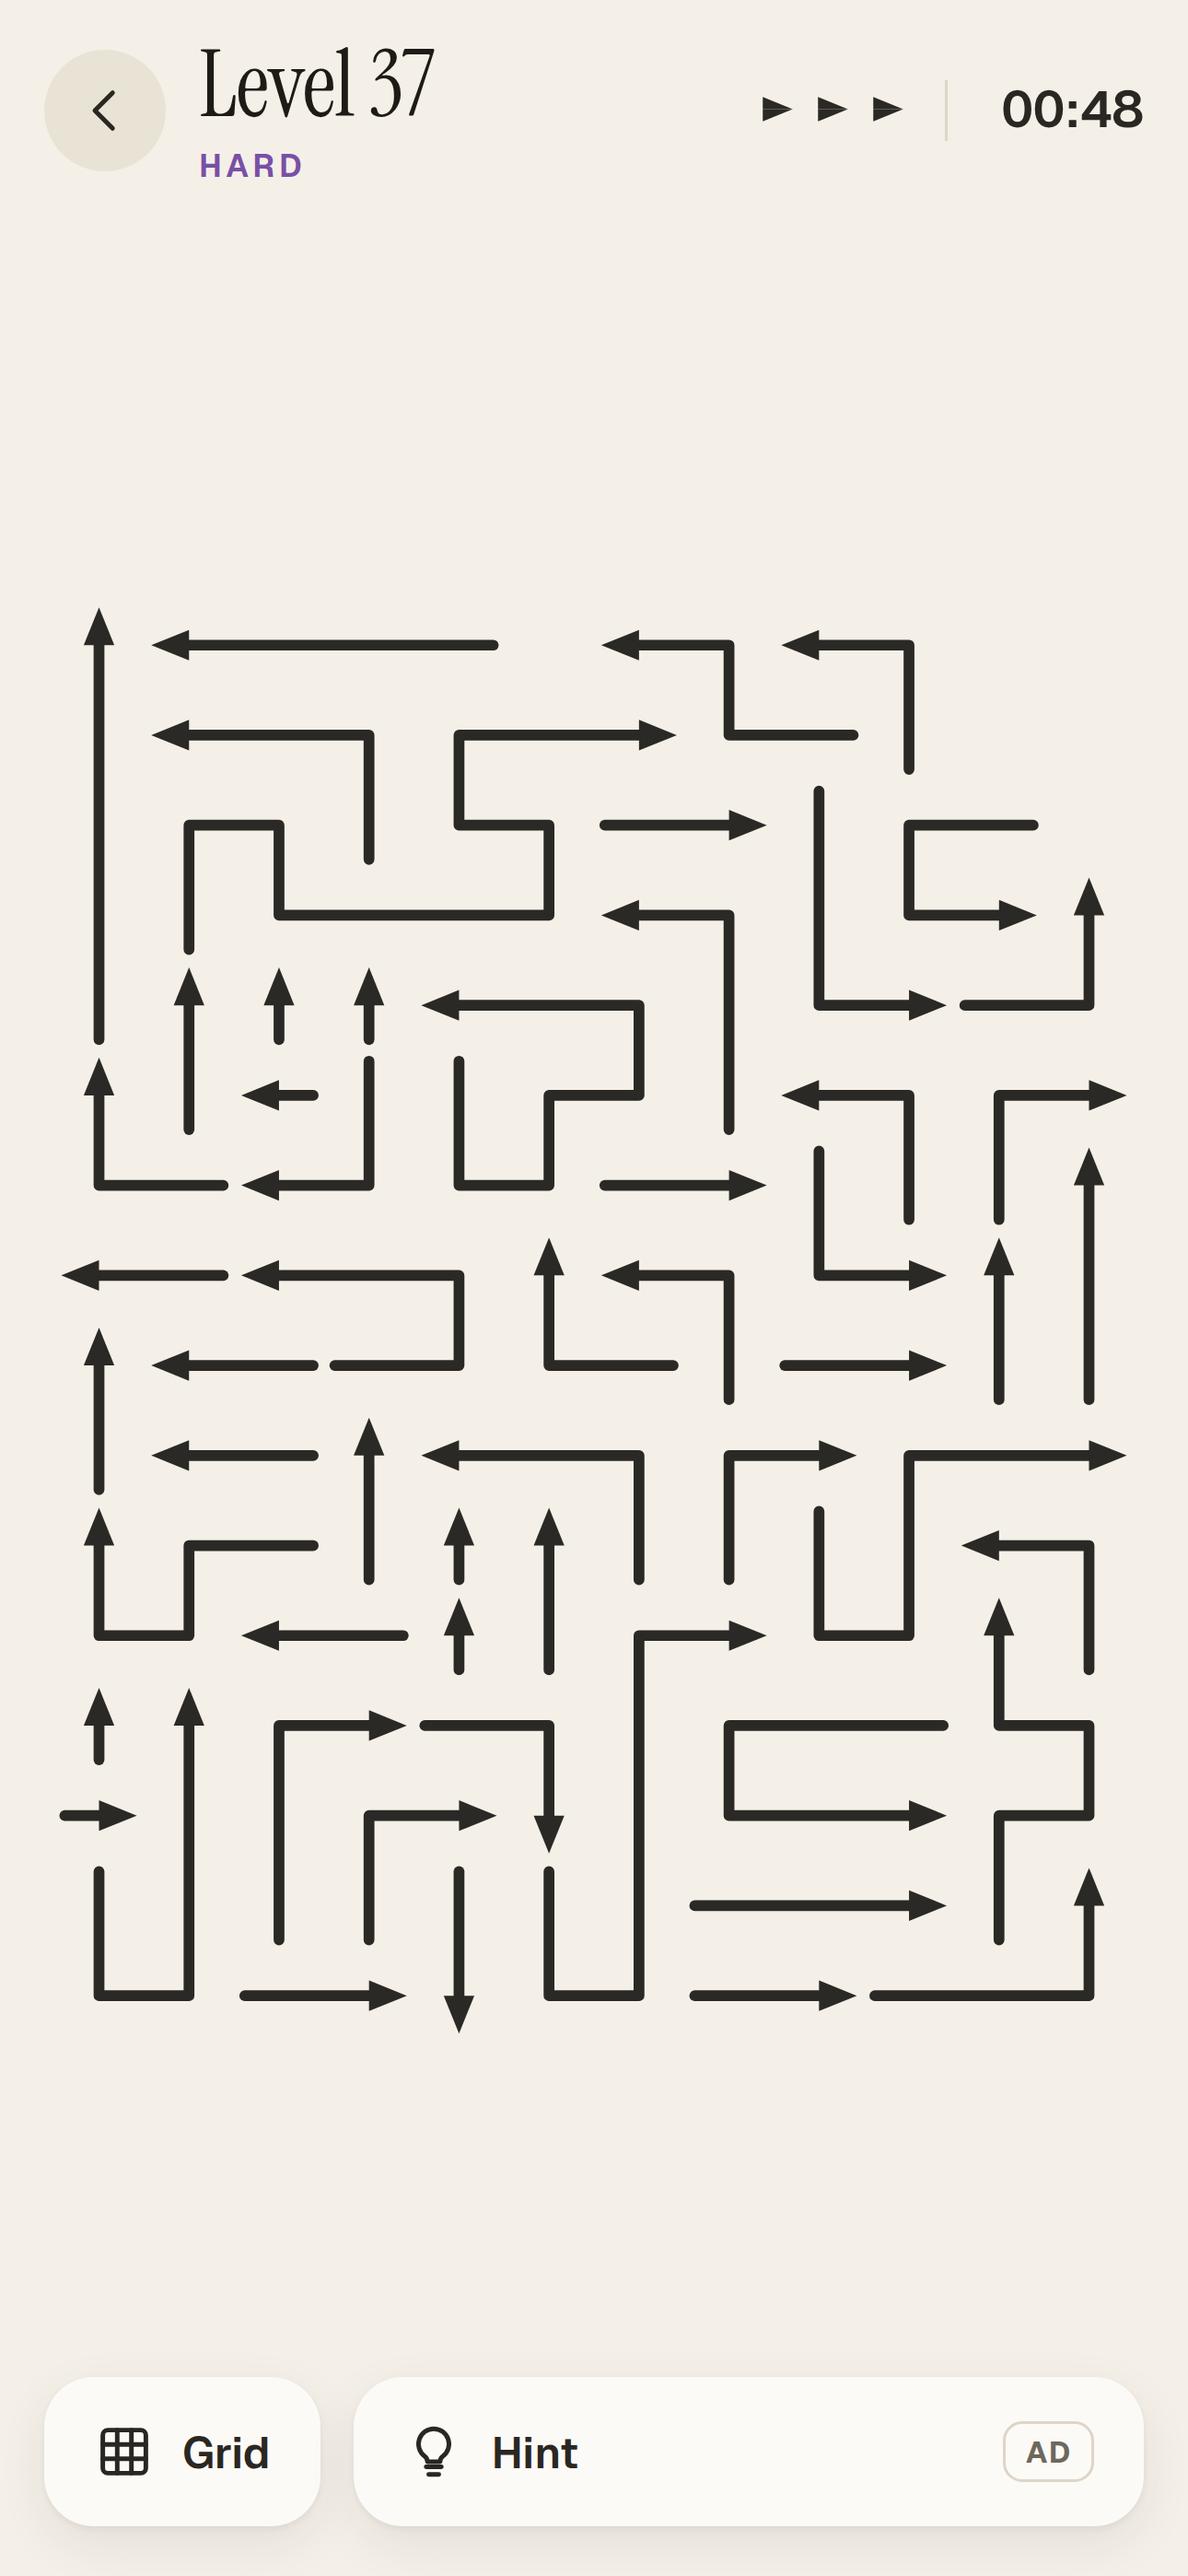
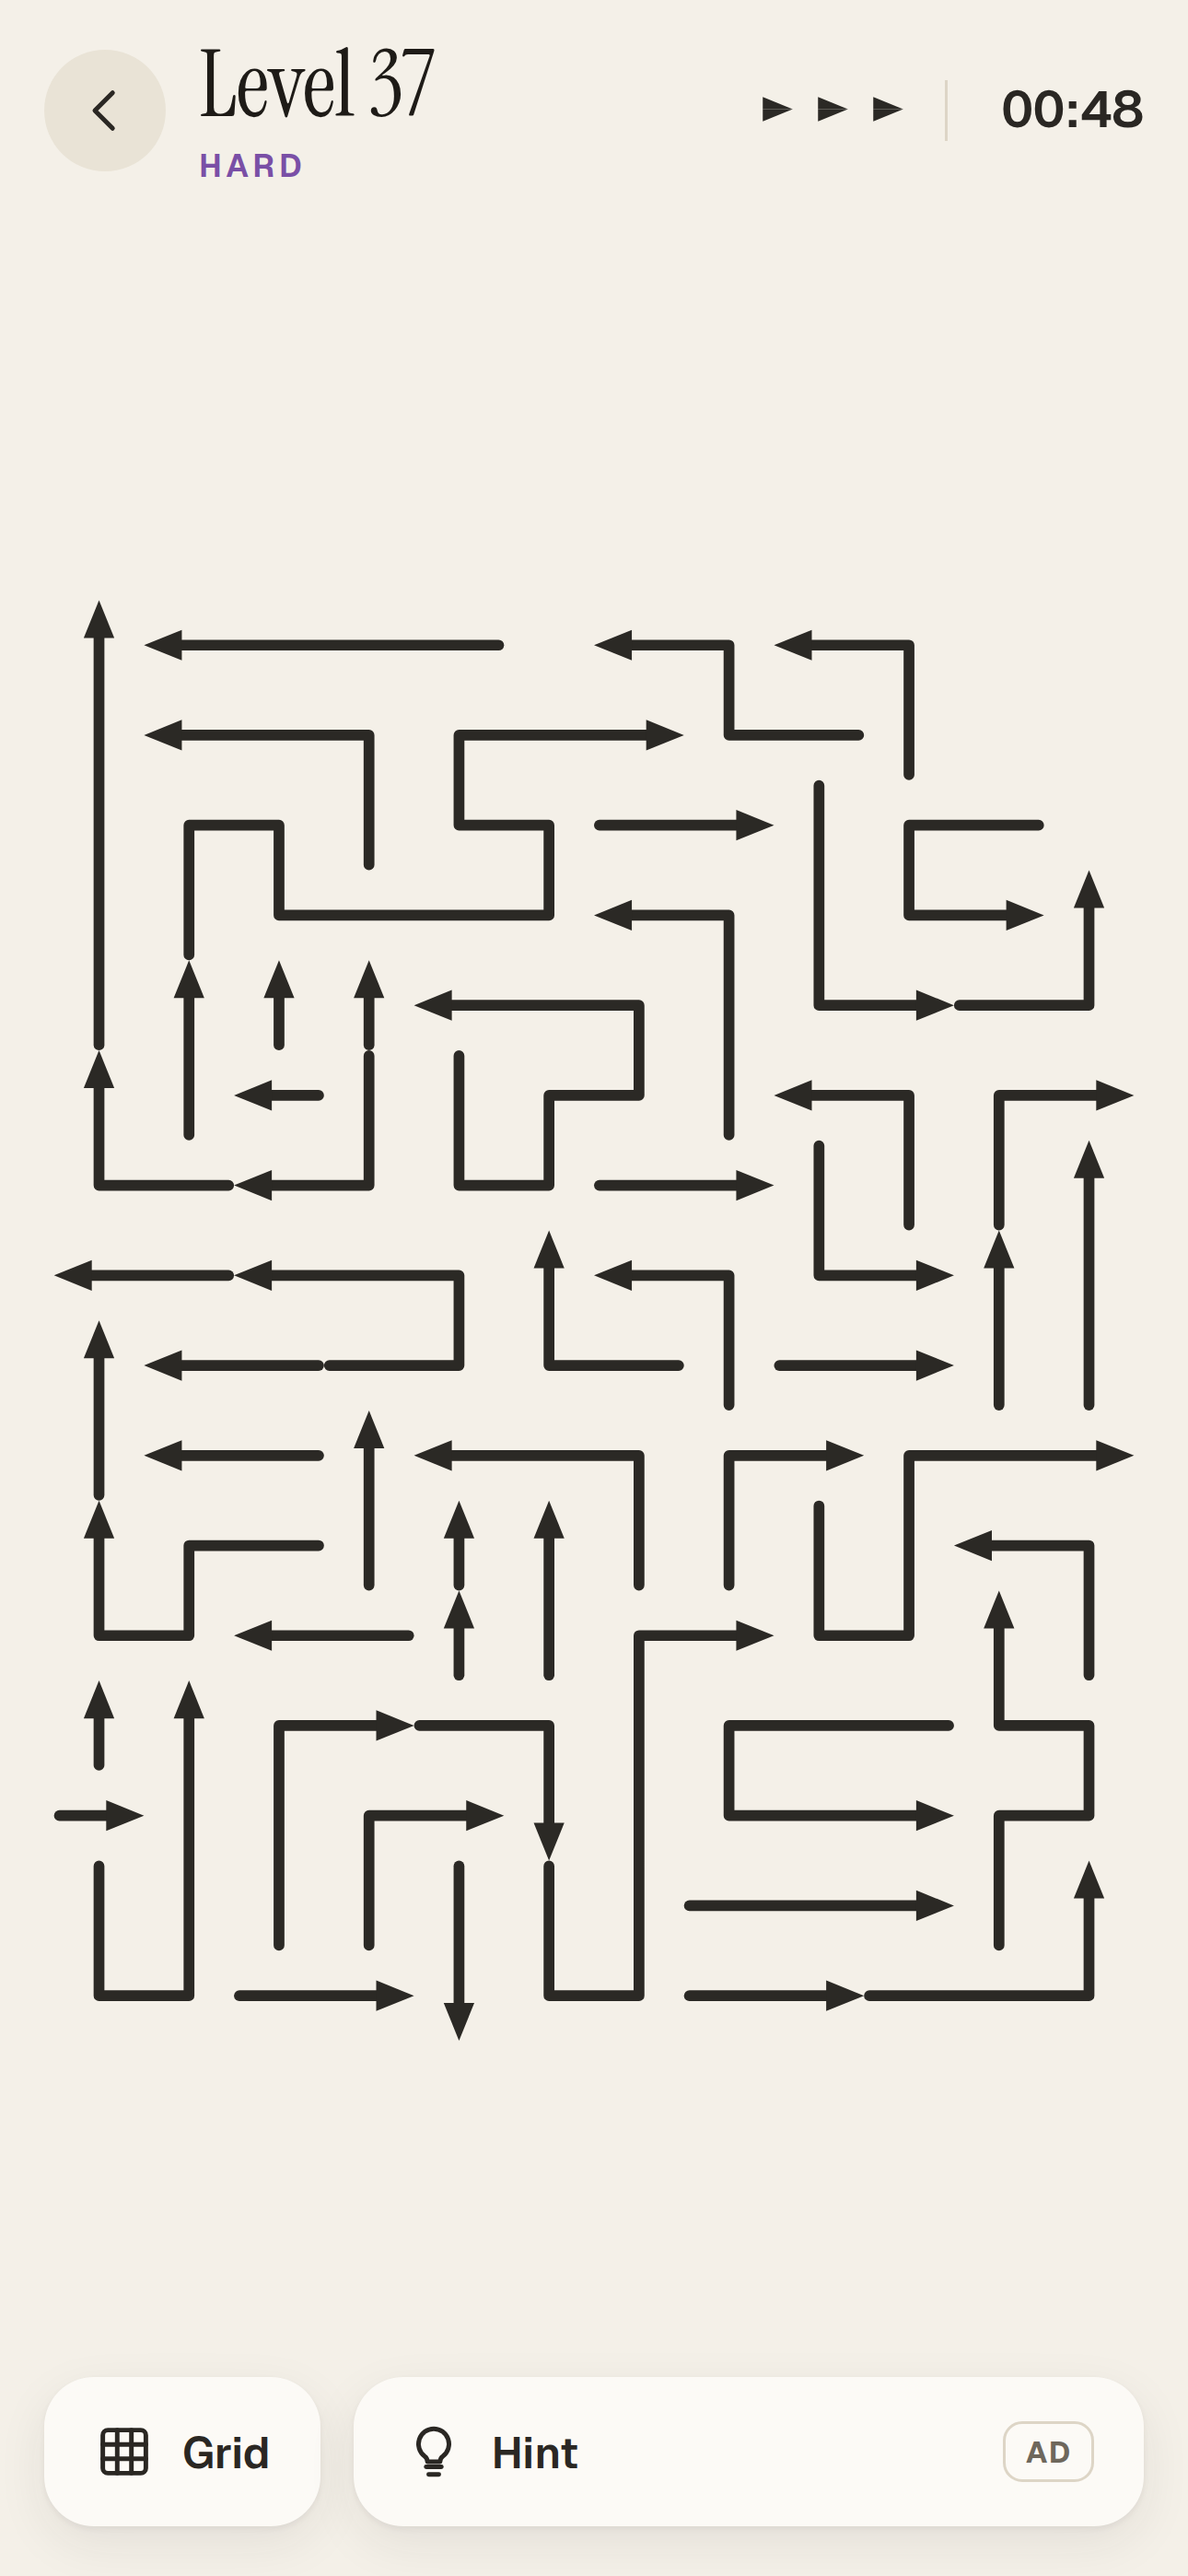
T13: a half-cell grid, with tips, corners and tails on its nodes
The owner on the first version: the grid was still about twice too
big; an arrowhead's tip, every corner of a body and the end of a tail
must each sit on an intersection. The grid now has a line every half
cell, through the cells' centres and along their edges, and the arrows
reach the edges: the head's tip at 0.5 from the head cell's centre
(was 0.42), the tail's round end at the tail cell's edge (tailReach
0.44 plus half the stroke, was 0.38). Two arrows in a line now meet tip
to tail. The store screenshots are taken again; DESIGN.md, PRODUCT.md
and PLAN.md follow.

Claude-Session: https://claude.ai/code/session_01CKCtUeDSMCkpGtK7miqN3G

diff --git a/apps/game/src/board/geometry.ts b/apps/game/src/board/geometry.ts
@@ -120,31 +120,46 @@ export function exitDuration(travel: number, motion: ThemeMotion): number {
 }
 
 /**
- * The grid: the lines the arrows run on, through the cells' centres, one per
- * row and per column across each run of active cells, from edge to edge. An
- * arrow's ray runs along one of them, so a player can follow it to the first
- * arrow in its way.
+ * The grid: lines every half cell, through the cells' centres and along their
+ * edges, across each run of active cells. Its nodes are where an arrow's
+ * corners (the centres), the tip of its head and the end of its tail (the
+ * edges) land, and an arrow's ray runs along one of its lines, so a player can
+ * follow it to the first arrow in its way.
  */
 export function gridData(mask: Mask): string {
   const active = (x: number, y: number): boolean =>
     x >= 0 && y >= 0 && x < mask.width && y < mask.height && mask.active[y * mask.width + x] === 1;
+  // Line k (in half cells) crosses cell row/column j when it runs through its
+  // centre (k = 2j + 1) or along one of its edges (k = 2j or 2j + 2).
+  const crosses = (k: number, j: number): boolean =>
+    k === 2 * j + 1 || k === 2 * j || k === 2 * j + 2;
   const parts: string[] = [];
-  for (let y = 0; y < mask.height; y++) {
-    for (let x = 0; x < mask.width; x++) {
-      if (!active(x, y) || active(x - 1, y)) continue;
-      let end = x + 1;
-      while (active(end, y)) end++;
-      parts.push(`M${x} ${y + 0.5}H${end}`);
+  const runs = (
+    lines: number,
+    length: number,
+    on: (k: number, i: number) => boolean,
+    draw: (k: number, from: number, to: number) => string,
+  ): void => {
+    for (let k = 0; k <= lines; k++) {
+      for (let i = 0; i < length; i++) {
+        if (!on(k, i) || on(k, i - 1)) continue;
+        let end = i + 1;
+        while (on(k, end)) end++;
+        parts.push(draw(k, i, end));
+      }
     }
-  }
-  for (let x = 0; x < mask.width; x++) {
-    for (let y = 0; y < mask.height; y++) {
-      if (!active(x, y) || active(x, y - 1)) continue;
-      let end = y + 1;
-      while (active(x, end)) end++;
-      parts.push(`M${x + 0.5} ${y}V${end}`);
-    }
-  }
+  };
+  // Horizontal line k runs over column x when an active cell of that column touches it.
+  const rowsOn = (k: number, x: number): boolean =>
+    x >= 0 &&
+    x < mask.width &&
+    [Math.floor((k - 1) / 2), Math.floor(k / 2)].some((y) => crosses(k, y) && active(x, y));
+  const columnsOn = (k: number, y: number): boolean =>
+    y >= 0 &&
+    y < mask.height &&
+    [Math.floor((k - 1) / 2), Math.floor(k / 2)].some((x) => crosses(k, x) && active(x, y));
+  runs(2 * mask.height, mask.width, rowsOn, (k, from, to) => `M${from} ${k / 2}H${to}`);
+  runs(2 * mask.width, mask.height, columnsOn, (k, from, to) => `M${k / 2} ${from}V${to}`);
   return parts.join('');
 }
 

diff --git a/apps/game/src/board/geometry.test.ts b/apps/game/src/board/geometry.test.ts
@@ -68,8 +68,11 @@ describe('headPoints', () => {
     expect(Math.abs(left!.x - right!.x)).toBeCloseTo(2 * style.headHalfWidth);
   });
 
-  it('keeps the tip inside the head cell even with the stroke around it', () => {
-    expect(style.headTip + style.strokeWidth / 2).toBeLessThan(0.5);
+  it('lands the tip and the end of the tail on the edge of the cell, a node of the grid', () => {
+    // The head is filled, not stroked: its tip is where it is drawn.
+    expect(style.headTip).toBe(0.5);
+    // The body's round cap reaches half a stroke past its last point.
+    expect(style.tailReach + style.strokeWidth / 2).toBeCloseTo(0.5);
   });
 
   it('covers the end of the body line', () => {
@@ -142,25 +145,30 @@ describe('exitTrack', () => {
 });
 
 describe('gridData and bounds', () => {
-  it('runs through the cell centres, one line per row and per column of a rectangle', () => {
-    // 2x1: one row, two columns, each across the board from edge to edge.
-    expect(gridData(rectangleMask(2, 1))).toBe('M0 0.5H2M0.5 0V1M1.5 0V1');
+  it('draws a line every half cell, through the centres and along the edges', () => {
+    // 2x1: three horizontal lines (top edge, centre, bottom edge), five vertical ones.
+    expect(gridData(rectangleMask(2, 1))).toBe(
+      'M0 0H2M0 0.5H2M0 1H2M0 0V1M0.5 0V1M1 0V1M1.5 0V1M2 0V1',
+    );
   });
 
-  it('runs where the arrows run', () => {
-    // A horizontal arrow's body and ray lie on its row's line, through the centres.
+  it('has a node at every corner, tip and tail end of an arrow', () => {
     const d = gridData(rectangleMask(3, 2));
+    // Centre lines (corners) and edge lines (tips and tails) both run the board's length.
     expect(d).toContain('M0 0.5H3');
-    expect(d).toContain('M0 1.5H3');
+    expect(d).toContain('M0 1H3');
     expect(d).toContain('M2.5 0V2');
+    expect(d).toContain('M3 0V2');
   });
 
   it('skips inactive cells of a drawing', () => {
-    expect(gridData(maskFromAscii(['A.', '..']))).toBe('M0 0.5H1M0.5 0V1');
+    expect(gridData(maskFromAscii(['A.', '..']))).toBe('M0 0H1M0 0.5H1M0 1H1M0 0V1M0.5 0V1M1 0V1');
   });
 
   it('breaks a line where a drawing has a gap', () => {
-    expect(gridData(maskFromAscii(['A.A']))).toBe('M0 0.5H1M2 0.5H3M0.5 0V1M2.5 0V1');
+    expect(gridData(maskFromAscii(['A.A']))).toBe(
+      'M0 0H1M2 0H3M0 0.5H1M2 0.5H3M0 1H1M2 1H3M0 0V1M0.5 0V1M1 0V1M2 0V1M2.5 0V1M3 0V1',
+    );
   });
 
   it('adds the margin around the board', () => {

diff --git a/apps/game/src/theme/theme.test.ts b/apps/game/src/theme/theme.test.ts
@@ -79,7 +79,9 @@ describe('theme', () => {
   it('uses the arrowhead of docs/DESIGN.md', () => {
     const { board } = DEFAULT_THEME;
     expect(board.strokeWidth).toBe(0.12);
-    expect(board.headTip).toBe(0.42);
+    // The tip and the tail's round end on the cell's edge, a node of the grid.
+    expect(board.headTip).toBe(0.5);
+    expect(board.tailReach).toBe(0.44);
     expect(board.headDepth).toBe(0.42);
     expect(board.headHalfWidth * 2).toBeCloseTo(0.34);
   });

diff --git a/apps/game/src/theme/default.ts b/apps/game/src/theme/default.ts
@@ -59,8 +59,10 @@ export const DEFAULT_THEME: Theme = {
   board: {
     strokeWidth: 0.12,
     emphasisWidth: 0.2,
-    tailReach: 0.38,
-    headTip: 0.42,
+    // The tail's round end and the arrowhead's tip land on the cell's edge, a node of
+    // the grid, as the corners land on the centres (docs/DESIGN.md, Board).
+    tailReach: 0.44,
+    headTip: 0.5,
     headDepth: 0.42,
     headHalfWidth: 0.17,
     bodyEnd: 0.14,

diff --git a/docs/PRODUCT.md b/docs/PRODUCT.md
@@ -74,8 +74,9 @@ Reference: Amaze GO! (App Store). We match its core loop and improve on honesty 
   rewarded ad: watched to the end, the hint shows; closed early, or when no ad can be shown,
   there is no hint. While a hint is on the board, pressing Hint again brings that arrow back into
   view without another ad, and the button shows no ad badge. The timer stops while the ad plays.
-- Grid toggle: shows the lines the arrows run on, through the cells' centres, under the paths.
-  An arrow's ray runs along one of them, so a player can follow it to the first arrow in its way.
+- Grid toggle: shows a grid under the paths, a line every half cell, so the tip of every
+  arrowhead, every corner of a body and the end of every tail sit on its nodes. An arrow's ray
+  runs along one of its lines, so a player can follow it to the first arrow in its way.
 - Pinch zoom and pan on the board (wheel and drag on desktop). Hit testing is by cell at the
   current scale, not by distance to the stroke; big boards are unplayable otherwise. The board
   sits between the top bar and the tool bar. A double tap on empty space resets the zoom; taps on

diff --git a/docs/DESIGN.md b/docs/DESIGN.md
@@ -72,10 +72,13 @@ palette and the hint and blocked states.
 
 ## Board
 
-Stroke `0.12` of a cell, round cap and round join, lines through cell centres. Arrowhead: a
-sharp-cornered triangle, tip `0.42` from the head cell's centre, length `0.42` (so its base sits
-on the centre), width `0.34`. The grid is a hairline in `grid` through the cell centres, the
-lines the arrows and their rays run on, across each run of active cells from edge to edge.
+Stroke `0.12` of a cell, round cap and round join, lines through cell centres. The tail's round
+end reaches the tail cell's edge (`0.44` behind its centre, plus half the stroke). Arrowhead: a
+sharp-cornered triangle, tip on the head cell's edge (`0.5` from its centre), length `0.42`,
+width `0.34`. The grid is a hairline in `grid`, a line every half cell, through the cell centres
+and along their edges, across each run of active cells: its nodes are where an arrow's corners
+(the centres), the tip of its head and the end of its tail (the edges) land, and its rays run
+along its lines.
 
 ## Chances
 

diff --git a/docs/PLAN.md b/docs/PLAN.md
@@ -223,10 +223,11 @@ documents say so.
 
 ### T13. The grid on the arrows' lines
 
-The grid toggle drew the cells' edges, while arrows run through the cells' centres.
+The grid toggle drew the cells' edges, a line every cell, while the arrows' corners sit on the
+cells' centres and their tips and tails short of the edges.
 
-Acceptance: the grid's lines run through the centres, where the arrows and their rays run, so a
-player can follow a ray to the arrow it would hit.
+Acceptance: a line every half cell, through the centres and along the edges, and arrows drawn
+so that the tip of the head, every corner and the end of the tail sit on the grid's nodes.
 
 ### T14. Harder Hard and Super Hard
 
